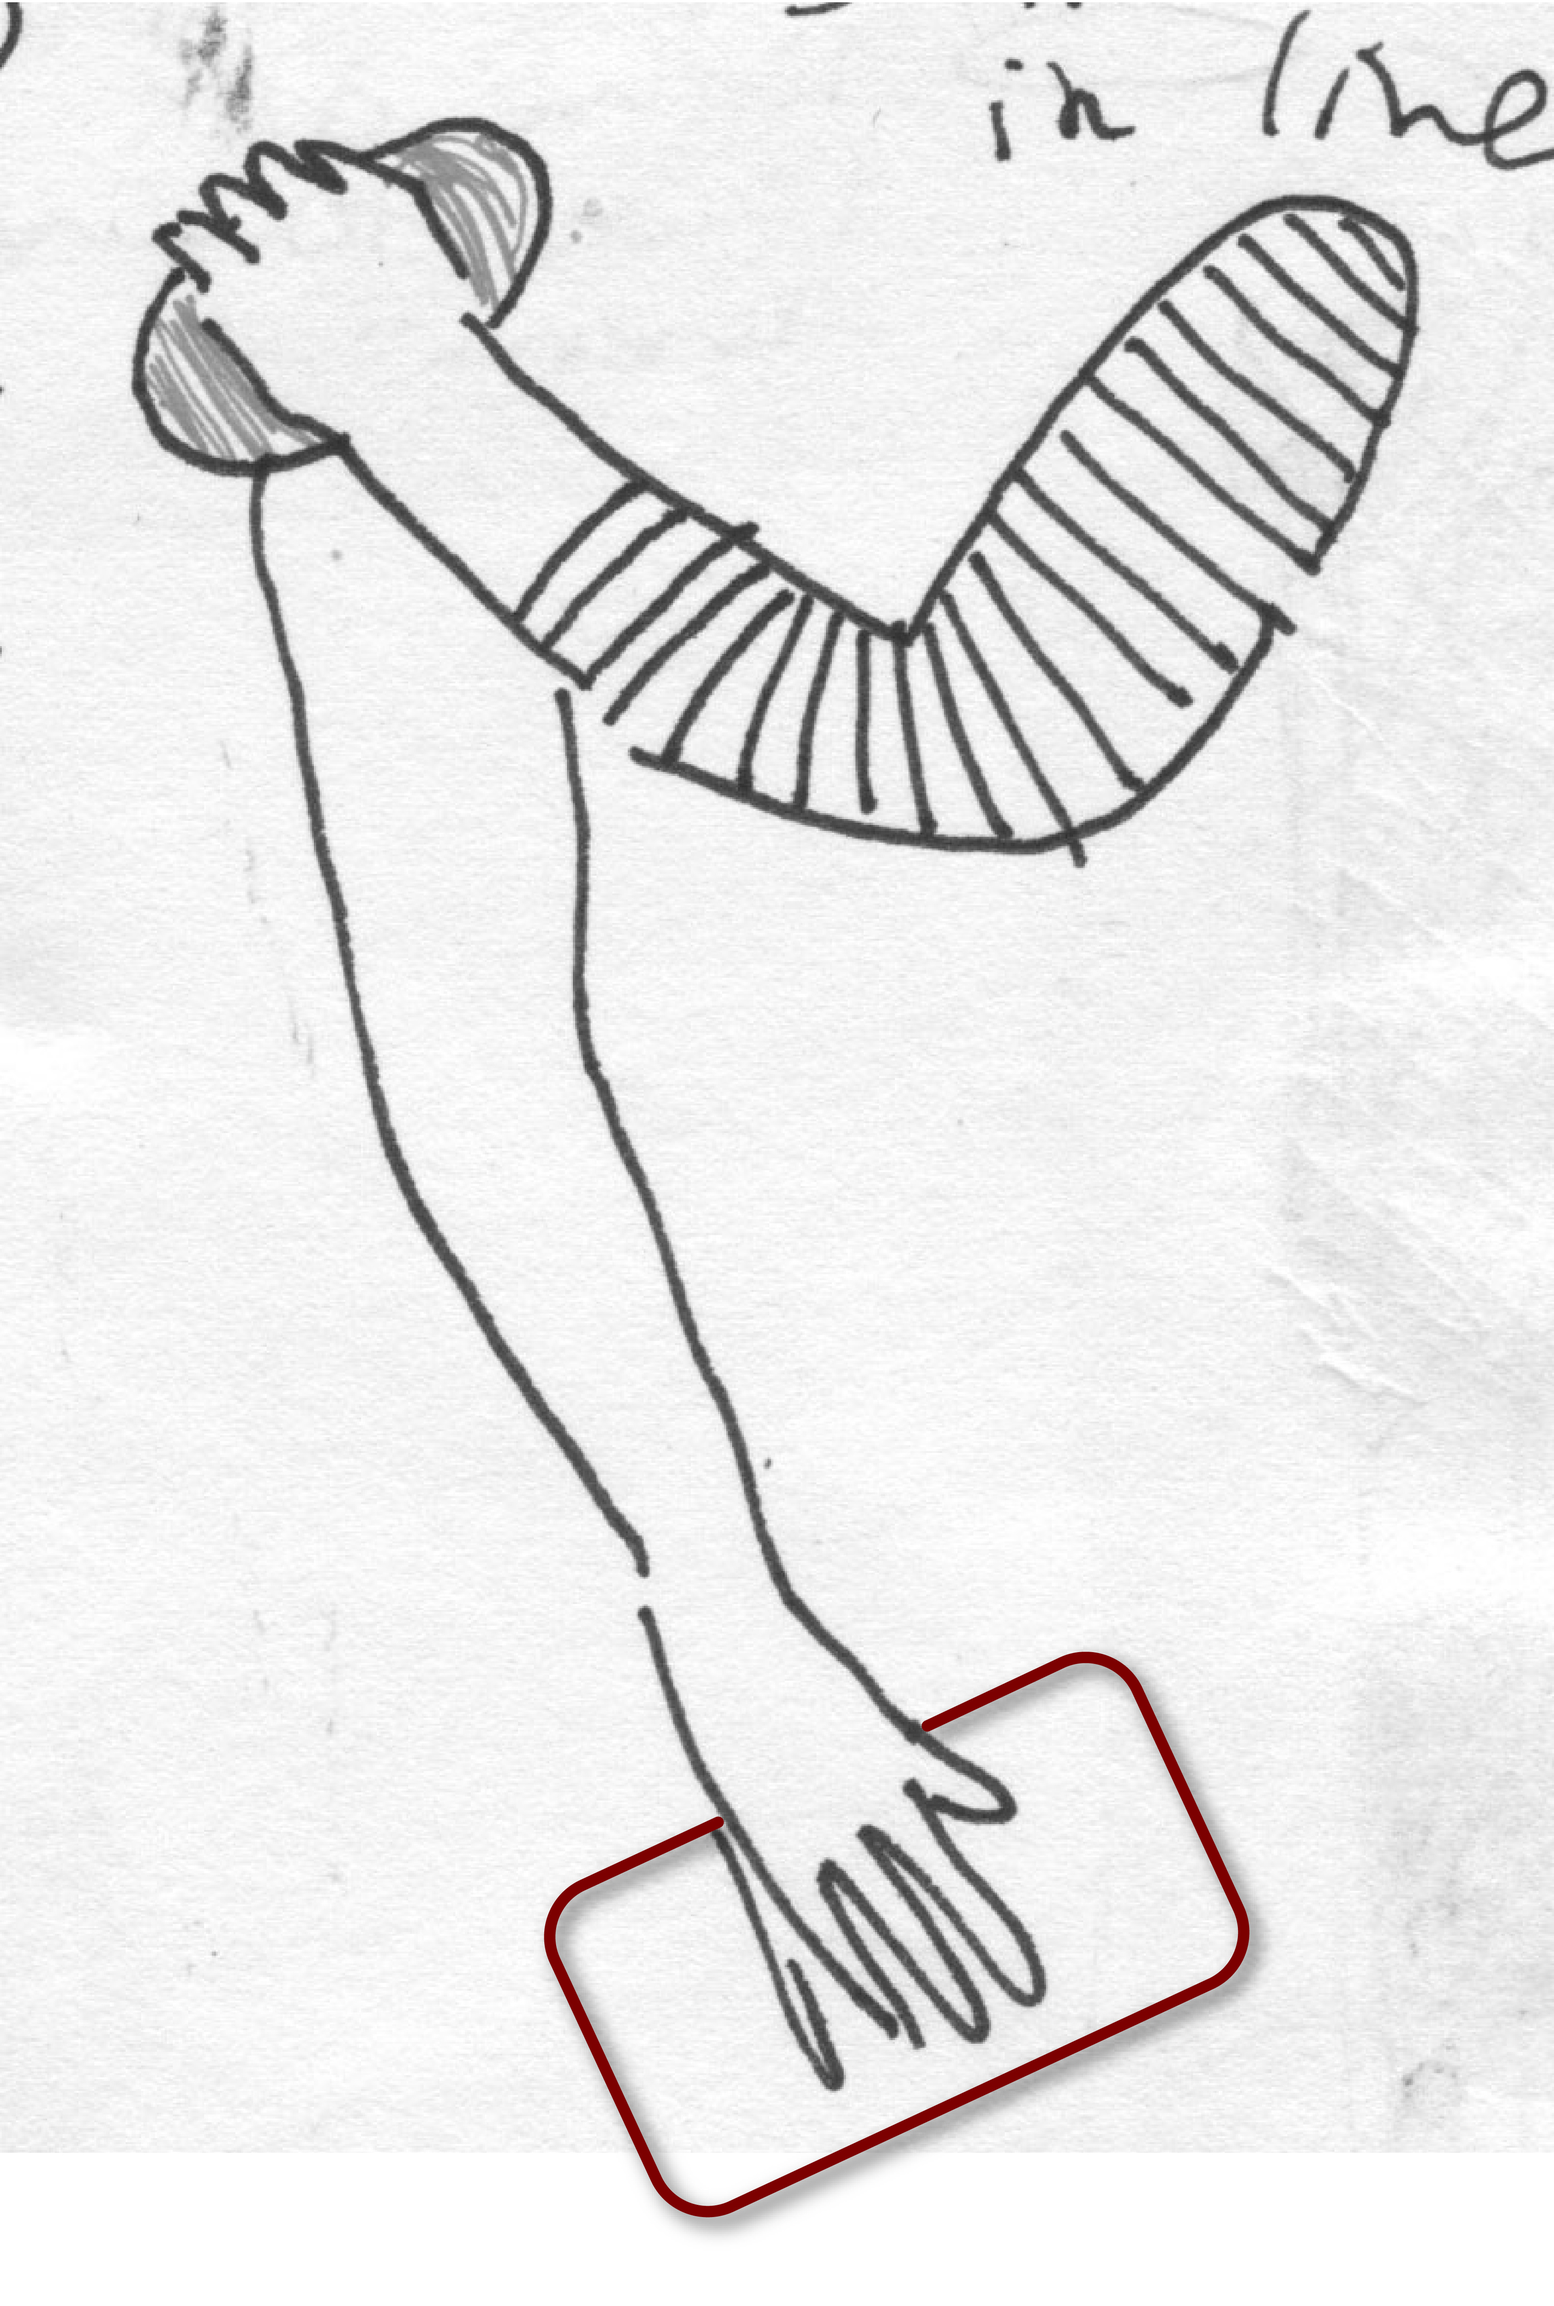
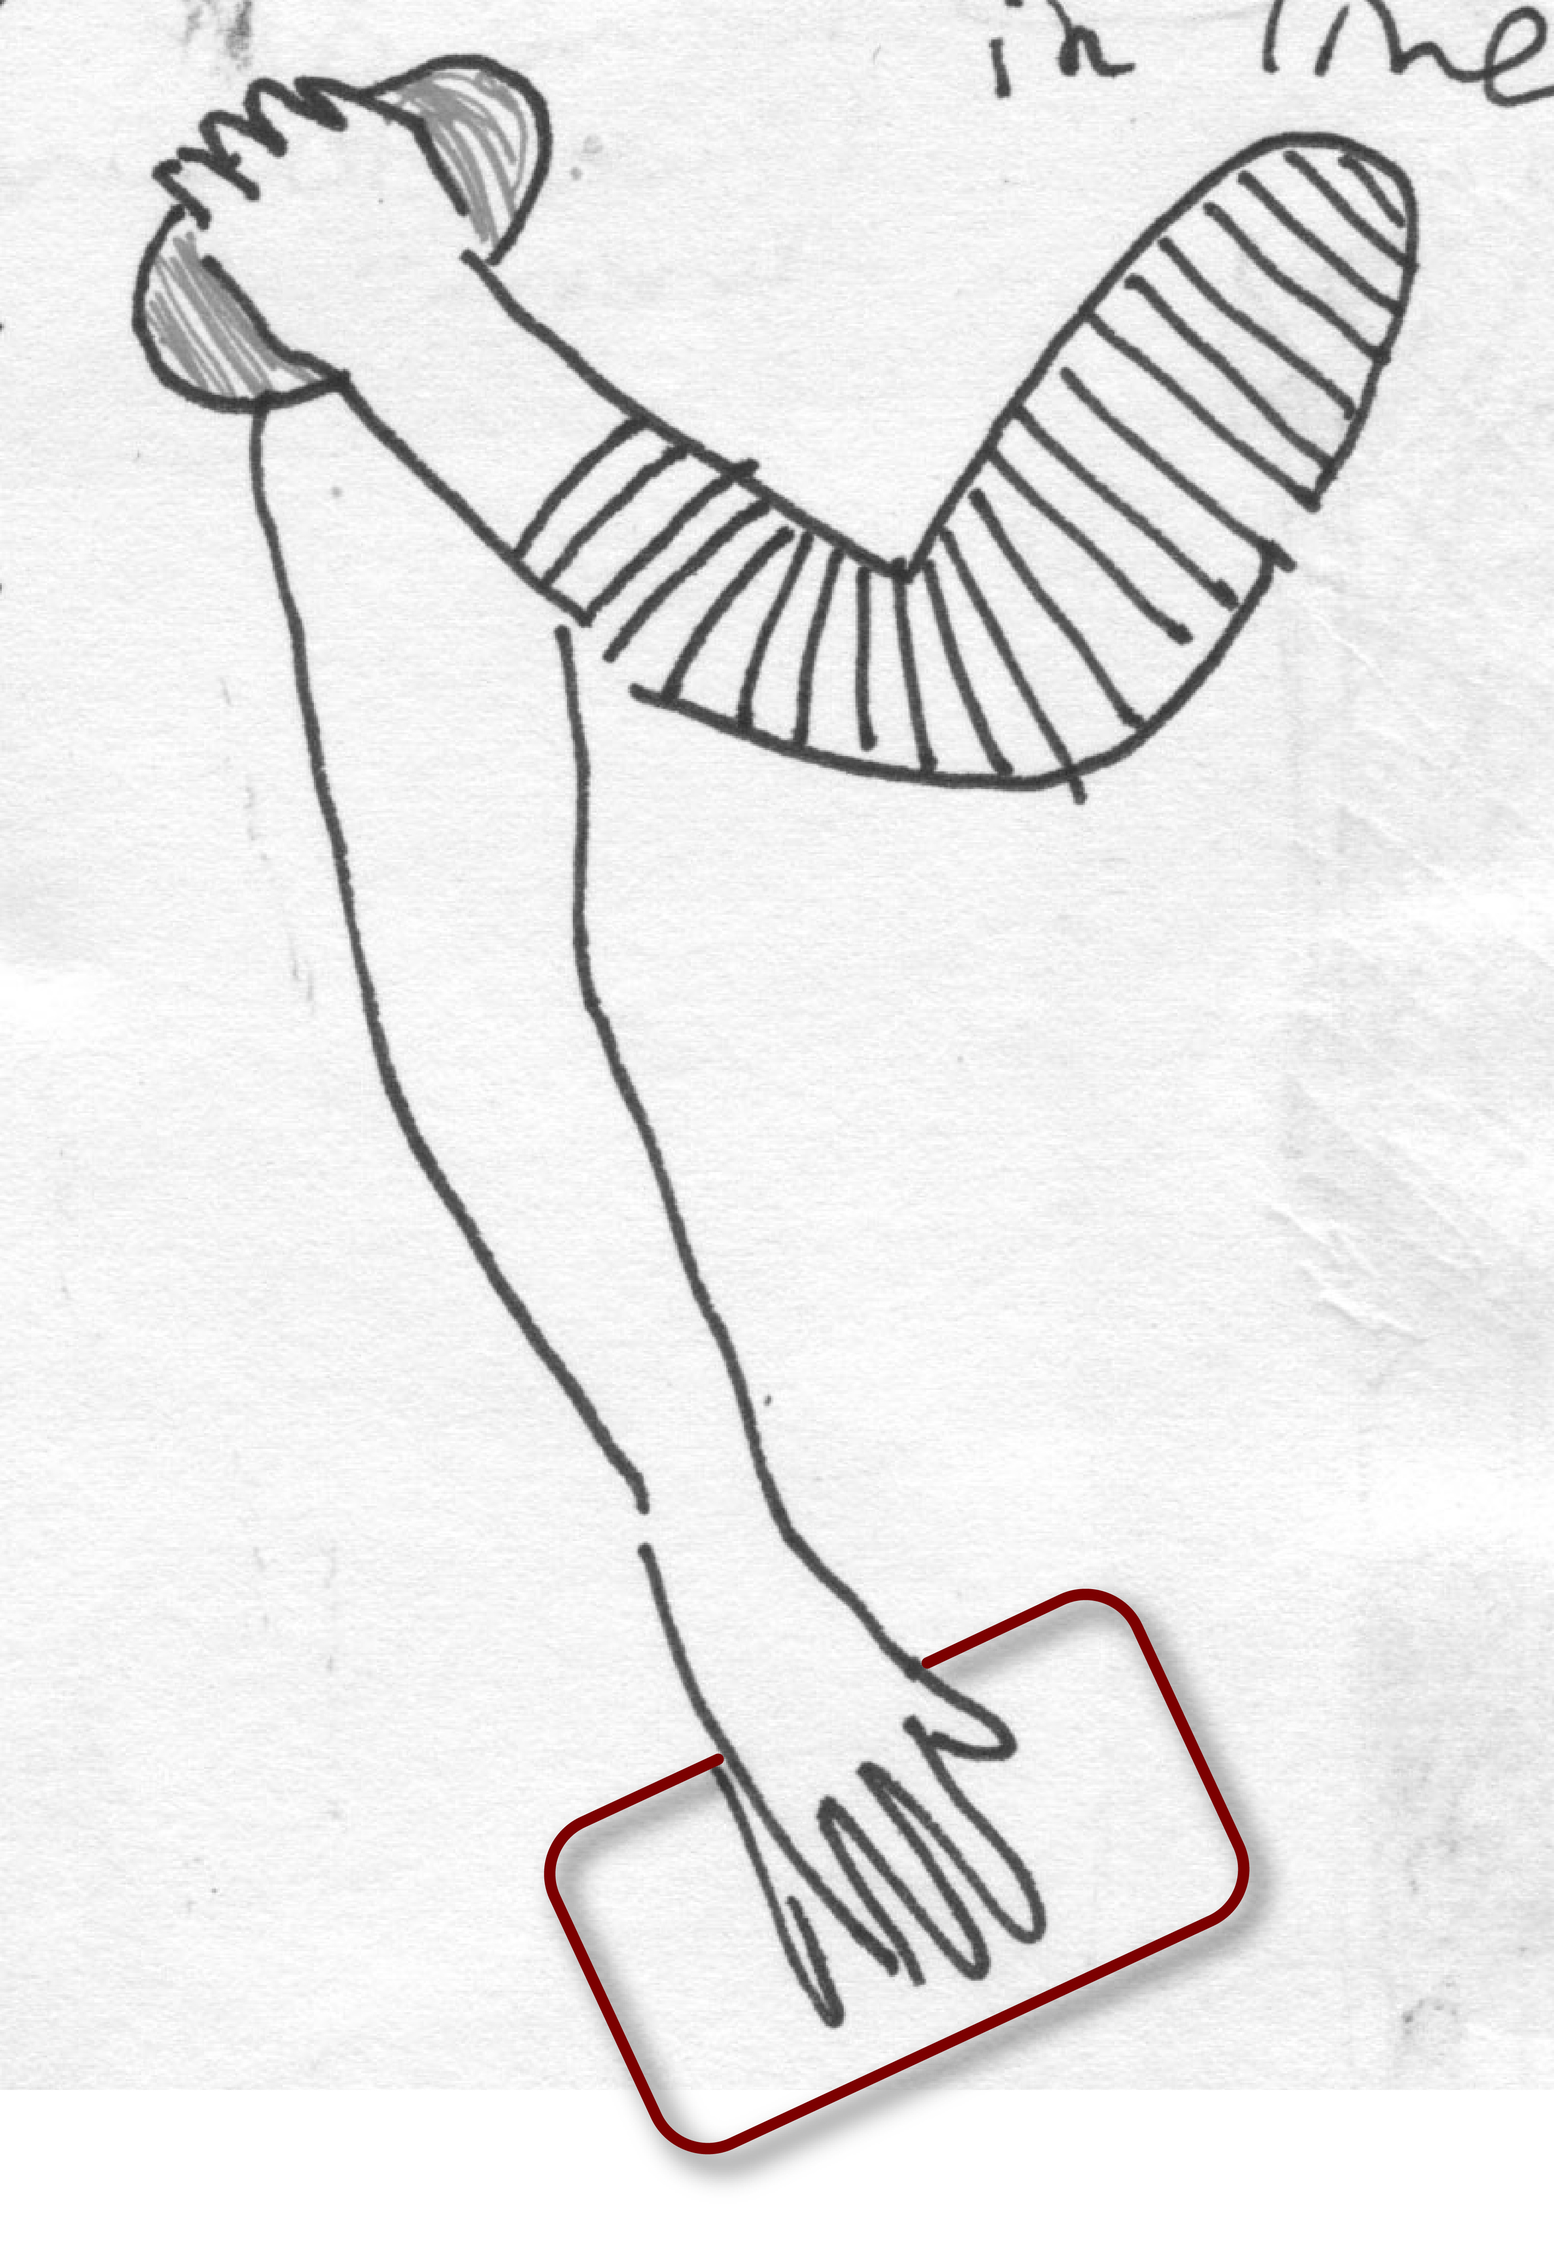
updates to size

diff --git a/css/main.css b/css/main.css
@@ -102,8 +102,8 @@ h3 {
 
 img {
 	margin-top: 50px;
-	width: 26%;
-	margin-left: 37%;
+	width: 28%;
+	margin-left: 36%;
 }
 
 .screen-iframe iframe,
@@ -183,8 +183,8 @@ img {
 	}
 
 	img {
-		width: 30%;
-		margin-left: 35%;
+		width: 32%;
+		margin-left: 34%;
 		margin-top: 30px;
 	}
 		
@@ -211,8 +211,8 @@ img {
 	}
 
 	img {
-		width: 40%;
-		margin-left: 30%;
+		width: 42%;
+		margin-left: 29%;
 		margin-top: 30px;
 	}
 		
